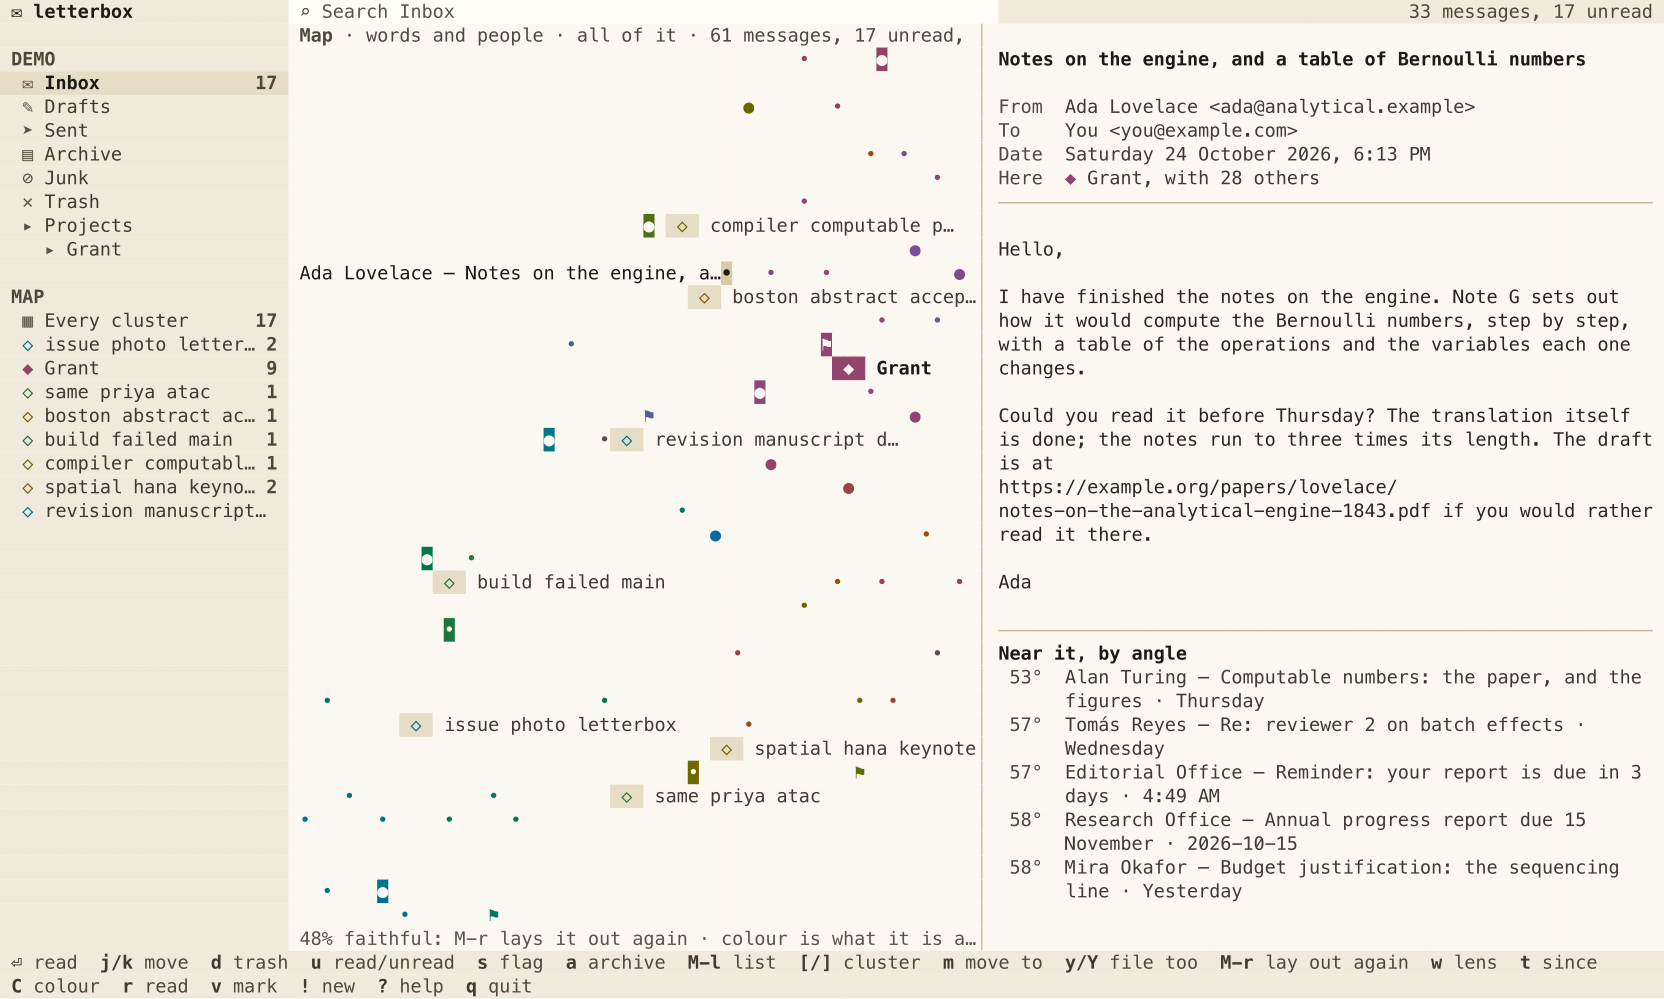
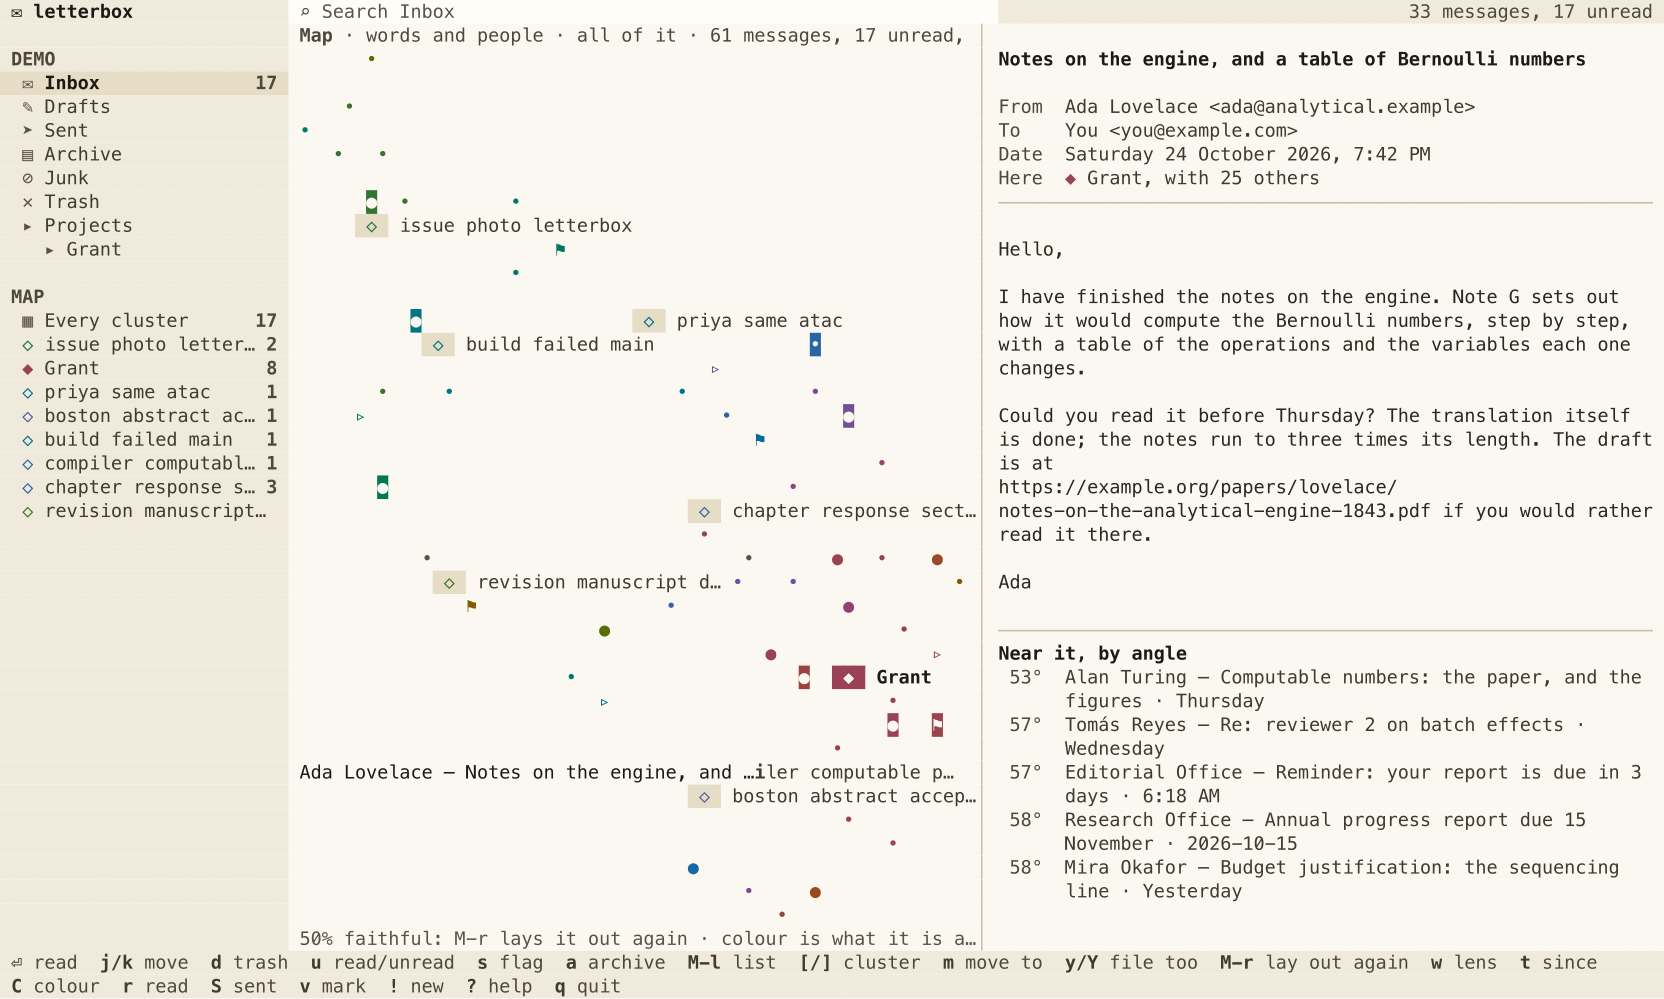
Place mail you sent by whom it went to, drawn ▹, and S to hide it
The model read sent mail as it reads mail come in: its sender, you, was
its weightiest token, so all of it drew together in one corner. Now the
people of mail sent from here are those it went to, so an answer lies
beside the mail it answers, and no cluster is named after you.

diff --git a/src/model.rs b/src/model.rs
@@ -89,8 +89,10 @@ pub fn bare_subject(subject: &str) -> &str {
     }
 }
 
-/// A message's tokens, and what each weighs, as `lens` reads it.
-pub fn tokens(r: &Record, lens: Lens) -> Vec<(String, f32)> {
+/// A message's tokens, and what each weighs, as `lens` reads it. The
+/// people of mail sent from here are those it went to, as the sender is
+/// of mail come in, so that an answer lies with the mail it answers.
+pub fn tokens(r: &Record, sent: bool, lens: Lens) -> Vec<(String, f32)> {
     let mut out: Vec<(String, f32)> = Vec::new();
     let mut add = |t: String, w: f32| {
         if !out.iter().any(|(x, _)| *x == t) {
@@ -101,13 +103,21 @@ pub fn tokens(r: &Record, lens: Lens) -> Vec<(String, f32)> {
         add(format!("list:{}", r.list), 3.0);
     }
     if lens != Lens::Words {
-        if !r.address.is_empty() {
-            add(format!("from:{}", r.address), 2.5);
-            if let Some((_, domain)) = r.address.rsplit_once('@') {
+        let (from, copied): (&[String], Vec<&String>) = if sent {
+            (&r.to, r.cc.iter().collect())
+        } else {
+            (
+                std::slice::from_ref(&r.address),
+                r.to.iter().chain(&r.cc).collect(),
+            )
+        };
+        for a in from.iter().filter(|a| !a.is_empty()) {
+            add(format!("from:{a}"), 2.5);
+            if let Some((_, domain)) = a.rsplit_once('@') {
                 add(format!("dom:{domain}"), 1.0);
             }
         }
-        for a in r.to.iter().chain(&r.cc) {
+        for a in copied {
             if *a != r.address {
                 add(format!("to:{a}"), 0.8);
             }
@@ -193,8 +203,9 @@ pub struct Model {
     pub label_vectors: BTreeMap<String, (String, Vector)>,
 }
 
-/// One message, as the model is given it: its record and its labels.
-pub type Given<'a> = (&'a Record, Vec<String>);
+/// One message, as the model is given it: its record, its labels, and
+/// whether it was sent from here.
+pub type Given<'a> = (&'a Record, Vec<String>, bool);
 
 impl Model {
     /// The model of `messages`, in the order given (the index's, by key),
@@ -203,8 +214,8 @@ impl Model {
     pub fn build(messages: &[Given], not_it: &BTreeSet<(Key, String)>, lens: Lens) -> Model {
         let tokens: Vec<Vec<(u64, String, f32)>> = messages
             .iter()
-            .map(|(r, _)| {
-                tokens(r, lens)
+            .map(|(r, _, sent)| {
+                tokens(r, *sent, lens)
                     .into_iter()
                     .map(|(t, w)| (bucket(&t), t, w))
                     .collect()
@@ -255,7 +266,7 @@ impl Model {
         // What each label is: the mean of its messages, and the tokens seen
         // in them, by how rare each is.
         let mut members: BTreeMap<String, (String, Vec<usize>)> = BTreeMap::new();
-        for (i, (_, labels)) in messages.iter().enumerate() {
+        for (i, (_, labels, _)) in messages.iter().enumerate() {
             for l in labels {
                 members
                     .entry(fold(l))
@@ -279,7 +290,7 @@ impl Model {
                     .collect(),
             );
         }
-        for (i, (record, labels)) in messages.iter().enumerate() {
+        for (i, (record, labels, _)) in messages.iter().enumerate() {
             let mut v = vectors[i];
             let mine: BTreeSet<String> = labels.iter().map(|l| fold(l)).collect();
             if mine.is_empty() {
@@ -311,11 +322,15 @@ impl Model {
         }
         Model {
             lens,
-            keys: messages.iter().map(|(r, _)| r.key.clone()).collect(),
+            keys: messages.iter().map(|(r, _, _)| r.key.clone()).collect(),
             vectors,
             words,
-            senders: messages.iter().map(|(r, _)| r.from.clone()).collect(),
-            labels: messages.iter().map(|(_, l)| l.clone()).collect(),
+            // Mail sent from here names no cluster by its sender.
+            senders: messages
+                .iter()
+                .map(|(r, _, sent)| if *sent { String::new() } else { r.from.clone() })
+                .collect(),
+            labels: messages.iter().map(|(_, l, _)| l.clone()).collect(),
             label_vectors,
         }
     }

diff --git a/src/tests.rs b/src/tests.rs
@@ -4391,7 +4391,7 @@ fn model_of(index: &Index, lens: Lens) -> crate::model::Model {
     let given: Vec<crate::model::Given> = index
         .records
         .values()
-        .map(|r| (r, index.labels(&r.key)))
+        .map(|r| (r, index.labels(&r.key), index.system(&r.key).sent))
         .collect();
     crate::model::Model::build(&given, &index.keep.not_it, lens)
 }
@@ -4449,6 +4449,46 @@ fn the_grant_mail_clusters_together() {
         again.clusters[again.of[at_subject(&index, &m, "Aims page, third pass")]].id,
         c.clusters[aims].id
     );
+}
+
+#[test]
+fn an_answer_lies_with_the_mail_it_answers_not_with_the_rest_sent() {
+    let index = demo_index();
+    let mira = "mira.okafor@uni.example";
+    let reply = "Re: Biosketch format changed again";
+    let people = model_of(&index, Lens::People);
+    let r = at_subject(&index, &people, reply);
+    assert!(index.system(&people.keys[r]).sent);
+    let near = people.nearest(r, 3);
+    let from = |i: usize| index.records[&people.keys[i]].address.as_str();
+    assert!(
+        near.iter().all(|&(i, _)| from(i) == mira),
+        "{:?}",
+        near.iter().map(|&(i, _)| from(i)).collect::<Vec<_>>()
+    );
+    // Read by both, it is among Mira's mail, near what it answers.
+    let both = model_of(&index, Lens::Both);
+    let r = at_subject(&index, &both, reply);
+    let answered = at_subject(&index, &both, "Biosketch format changed again");
+    let near = both.nearest(r, 2);
+    assert_eq!(index.records[&both.keys[near[0].0]].address, mira);
+    assert!(near.iter().any(|&(i, _)| i == answered));
+    // Mail sent to different people is not drawn together for being sent.
+    for m in [&people, &both] {
+        let sent: Vec<usize> = (0..m.len())
+            .filter(|&i| index.system(&m.keys[i]).sent)
+            .collect();
+        assert!(sent.len() >= 4);
+        for &i in &sent {
+            let (j, _) = m.nearest(i, 1)[0];
+            assert!(
+                !sent.contains(&j),
+                "{} by {}",
+                index.records[&m.keys[i]].subject,
+                index.records[&m.keys[j]].subject
+            );
+        }
+    }
 }
 
 #[test]
@@ -4603,7 +4643,9 @@ fn filing_one_grant_message_makes_the_others_suggestions() {
         .map(|&(i, _)| index.records[&m.keys[i]].subject.as_str())
         .collect();
     assert!(!said.contains(&GRANT_MAIL[0]), "filed, not suggested");
-    for s in [GRANT_MAIL[1], GRANT_MAIL[2]] {
+    // The budget, and your answer to Mira about the biosketch; not the
+    // aims page, which lies on the edge of what is near.
+    for s in [GRANT_MAIL[2], "Re: Biosketch format changed again"] {
         assert!(said.contains(&s), "{s} in {said:?}");
     }
     // Your answer to Mira about the biosketch is the grant's too.

diff --git a/src/map.rs b/src/map.rs
@@ -111,6 +111,8 @@ pub struct Dot {
     pub key: Key,
     pub from: String,
     pub address: String,
+    /// The addresses it went to.
+    pub to: Vec<String>,
     pub subject: String,
     pub preview: String,
     pub message_id: String,
@@ -253,7 +255,7 @@ pub fn compute(input: Input) -> Snapshot {
     let given: Vec<model::Given> = input
         .records
         .iter()
-        .map(|(r, labels, _, _)| (r, labels.clone()))
+        .map(|(r, labels, _, system)| (r, labels.clone(), system.sent))
         .collect();
     let model = Model::build(&given, &input.not_it, input.lens);
     let clustering = model::cluster(&model, &input.before, SEED);
@@ -277,6 +279,7 @@ pub fn compute(input: Input) -> Snapshot {
                 key: r.key.clone(),
                 from: r.from.clone(),
                 address: r.address.clone(),
+                to: r.to.clone(),
                 subject: r.subject.clone(),
                 preview: r.preview.clone(),
                 message_id: r.message_id.clone(),
@@ -442,6 +445,7 @@ pub struct Map {
     pub since: Since,
     pub colour: Colour,
     pub hide_read: bool,
+    pub hide_sent: bool,
     /// Whether areas with nothing new are dimmed.
     pub new_only: bool,
     /// When the map was looked at before this look, in seconds since 1970.
@@ -497,8 +501,9 @@ impl Map {
         dot.flags.seen && dot.date.is_some_and(|d| now - d > OLD)
     }
 
-    /// The messages drawn: all, but the read ones if they are hidden, and
-    /// those older than how far back the map goes.
+    /// The messages drawn: all, but the read ones if they are hidden, the
+    /// sent ones if they are, and those older than how far back the map
+    /// goes.
     pub fn shown(&self, now: i64) -> Vec<usize> {
         let Some(s) = &self.snapshot else {
             return Vec::new();
@@ -507,7 +512,9 @@ impl Map {
         (0..s.dots.len())
             .filter(|&i| {
                 let d = &s.dots[i];
-                !(self.hide_read && d.flags.seen) && d.date.unwrap_or(d.arrived) >= from
+                !(self.hide_read && d.flags.seen)
+                    && !(self.hide_sent && d.system.sent)
+                    && d.date.unwrap_or(d.arrived) >= from
             })
             .collect()
     }

diff --git a/src/ui.rs b/src/ui.rs
@@ -1232,7 +1232,7 @@ fn map_pane(f: &mut Frame, app: &mut App, area: Rect) {
         Focused::All => {}
     }
     head.push(Span::styled(what, dim));
-    let key = "   ● unread  • read  ⚑ flag  ▪ yours  ◆ label  ◇ cluster";
+    let key = "   ● unread  • read  ▹ sent  ⚑ flag  ▪ yours  ◆ label  ◇ cluster";
     let used: usize = head.iter().map(|h| h.content.width()).sum();
     if used + key.width() <= legend.width as usize {
         head.push(Span::styled(key, Style::new().fg(t.faint)));
@@ -1353,6 +1353,8 @@ fn map_pane(f: &mut Frame, app: &mut App, area: Rect) {
             '⚑'
         } else if d.mine {
             '▪'
+        } else if d.system.sent {
+            '▹'
         } else if !d.flags.seen {
             '●'
         } else {
@@ -1532,15 +1534,18 @@ fn map_pane(f: &mut Frame, app: &mut App, area: Rect) {
             Target::Anchor(g.id),
         ));
     }
-    // The message picked, named beside it: its sender and its subject.
+    // The message picked, named beside it: its sender, or whom it was
+    // sent to, and its subject.
     if let Some(p) = picked
         && let Some(&(x, y)) = app.map.cells.get(&p)
     {
         let d = &s.dots[p];
-        let from = if d.from.is_empty() {
-            &d.address
+        let from = if d.system.sent {
+            format!("to {}", d.to.join(", "))
+        } else if d.from.is_empty() {
+            d.address.clone()
         } else {
-            &d.from
+            d.from.clone()
         };
         let said = format!(" {from} — {} ", d.subject);
         let room_right = canvas.right().saturating_sub(x + 1) as usize;

diff --git a/src/keymap.rs b/src/keymap.rs
@@ -48,6 +48,8 @@ pub enum Act {
     /// `r`: in the map, read mail shown or hidden; elsewhere, as it replies
     /// in other mail programs, says which keys do.
     ShowRead,
+    /// In the map, mail sent from here shown or hidden.
+    ShowSent,
     /// The map, or the list, in the middle pane.
     MapView,
     ListView,
@@ -361,6 +363,13 @@ pub const KEYS: &[Binding] = &[
         hint: "r",
         foot: &[(Map, "read")],
         help: "in the map, show or hide read mail; elsewhere, say which keys reply",
+    },
+    Binding {
+        keys: &[("S", ShowSent)],
+        name: "S",
+        hint: "S",
+        foot: &[(Map, "sent")],
+        help: "in the map, show or hide the mail you sent, drawn ▹ beside the mail it answers",
     },
     Binding {
         keys: &[("v", Mark)],

diff --git a/src/app.rs b/src/app.rs
@@ -2370,6 +2370,14 @@ impl App {
                     "read mail shown".to_string()
                 };
             }
+            Act::ShowSent => {
+                self.map.hide_sent = !self.map.hide_sent;
+                self.status = if self.map.hide_sent {
+                    "sent mail hidden: S shows it".to_string()
+                } else {
+                    "sent mail shown".to_string()
+                };
+            }
             Act::Mark => self.mark_cluster(),
             Act::Move
             | Act::NewLabel

diff --git a/README.md b/README.md
@@ -139,6 +139,7 @@ letterbox search grant report --account Work
 | `t` | in the map, all of it, this week's, or today's |
 | `C` | in the map, colour by what it is about, by how near the message picked, or by its state |
 | `r` | in the map, show or hide read mail; elsewhere, say which keys reply |
+| `S` | in the map, show or hide the mail you sent, drawn ▹ beside the mail it answers |
 | `!` | in the map, dim the areas with nothing new |
 | `m` | in the map, move the message picked, or what is marked, onto a cluster or a label: `enter` on one, or a click on its anchor. It is given the label and taken out of the Inbox |
 | `N` | while moving, a new label for it alone: its name is asked, its commonest word given |
@@ -185,8 +186,10 @@ and says what else would go there. `M-l` goes back to the list.
 
 ![letterbox's map of the demo's mail](docs/map.png)
 
-Each message is a cell: `●` unread, `•` read, `⚑` flagged, `▪` labelled
-by you, and a digit for several in one. Mail come since the map was last
+Each message is a cell: `●` unread, `•` read, `▹` sent by you, `⚑`
+flagged, `▪` labelled by you, and a digit for several in one. Mail you
+sent is placed by whom it went to, as mail come in is by whom it is
+from, so an answer lies beside the mail it answers. Mail come since the map was last
 looked at, and still in the Inbox, is drawn reversed. Its colour is what
 it is about, at one lightness for every hue; `C` turns it to how near
 the message picked, by angle, or to its state. Each label has an anchor,
@@ -202,7 +205,8 @@ the message read beside the map follows, with its labels, the cluster it
 is in, and the five messages nearest it. `[` and `]` narrow the map to
 one cluster after another. `w` lays it out by words and people, by words
 alone or by people alone; `t` shows all of it, this week's or today's;
-`r` hides read mail, and `!` dims the clusters with nothing new. The
+`r` hides read mail, `S` the mail you sent, and `!` dims the clusters
+with nothing new. The
 sidebar lists the clusters too, and the messages that fit nowhere; `M-l`
 lists the one picked.
 
